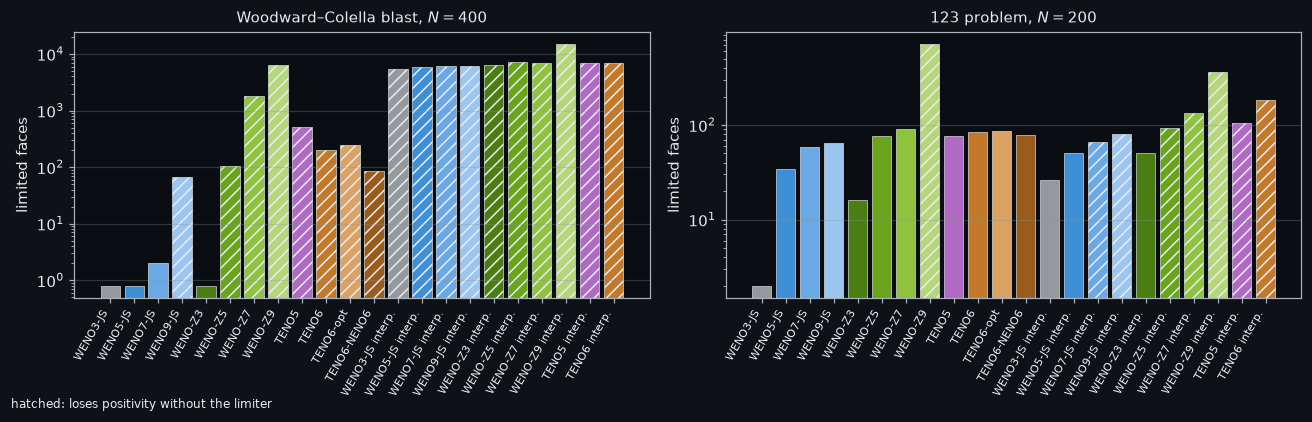
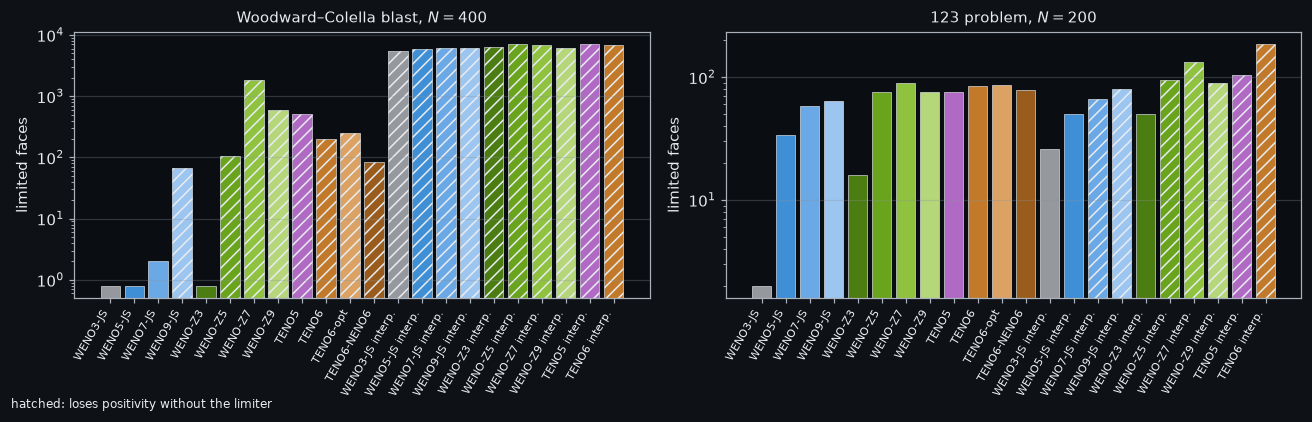
docs(verification): WENO-Z9 runs at p = 2, pages and tables redrawn
The pages still described the p = 1 behaviour that the tests no longer
  run: a 0.28 overshoot behind the Burgers shock, exempted from the
  bound, and "not robust at shocks" in the guide. They now state what
  the report-mode run measures with p = 2, and keep the p = 1 numbers
  as the reason for the choice:

  - Burgers: overshoot at most 9.4e-4 on 40 to 640 cells (0.19 to 0.28)
  - composite profile: within [-7.8e-5, 1.0005] (was [-0.055, 1.056])
  - blast wave: 585 limited faces, 6041 on the interpolation path
    (6294, 14994)
  - 123 problem: positive without the limiter on the splitting path
  - Shu-Osher: L1(rho) 0.1374 (0.1255), the one case where p = 2 costs
    accuracy

  The cause is given as the exponent, not tau_9 = |beta_0 - beta_4|,
  and the claim is limited to the one-dimensional cases run here. The
  blast page no longer says at which step WENO-Z9 loses positivity: the
  case does not record it for p = 2.

  Tables, figures and animations are regenerated by scripts/run_vv.sh
  (gfortran); every bound holds for every scheme, the quick suite
  passes 26/26 and the site builds.

  Closes #1

diff --git a/docs/verification/shocks/burgers.md b/docs/verification/shocks/burgers.md
@@ -69,11 +69,14 @@ after the shock at $N = 80$.*
   shock with an upstream group velocity, and TENO6 does not damp them. The [ADR](../spectral/adr) shows why: TENO6 is
   anti-dissipative in a narrow band near $\vartheta/\pi \approx 0.47$, a wavelength of about $4h$, where its cutoff
   starts to act.
-- The overshoot after the shock stays below $10^{-4}$ for most schemes and below $10^{-2}$ for all but one
-  (asserted). WENO-Z7 reaches $6\cdot10^{-3}$.
-- **WENO-Z9 overshoots by 0.28 behind the shock** (printed, exempted from the bound; to be fixed:
-  [issue #1](https://github.com/szaghi/SETH/issues/1)). Its
-  $\tau_9 = |\beta_0 - \beta_4|$ (Castro et al.'s rule for odd $r$, as restated by Li et al. 2022b; the choice was
-  already recorded as unsourced for WENO-Z9) is small when the two outer candidates straddle a smeared shock
-  symmetrically. The weights then stay close to the linear ones across the shock. The same weakness makes WENO-Z9
-  lose positivity in the first step of the [blast wave](./blast) and on the [123 problem](./test123).
+- The overshoot after the shock stays below $10^{-4}$ for most schemes and below $10^{-2}$ for all (asserted).
+  WENO-Z7 reaches $6\cdot10^{-3}$, WENO-Z9 $9\cdot10^{-4}$.
+- **WENO-Z9 needs the exponent $p = 2$.** With $p = 1$ it overshoots by 0.19 to 0.28 behind the shock on every
+  grid, leaves $[-0.05, 1.05]$ on the [composite profile](./advection) and needs 6294 limited faces on the
+  [blast wave](./blast); with $p = 2$, which every case of this section now runs, the overshoot is at most
+  $9\cdot10^{-4}$, the composite profile stays within $[-8\cdot10^{-5}, 1.0005]$ and the blast wave needs 585
+  limited faces. The convergence before the shock is the same for both. The cause is the exponent, not
+  $\tau_9 = |\beta_0 - \beta_4|$: Castro et al. (2011) use that $\tau_9$ and report low exponents unstable at
+  high order (llm-wiki high-order-capturing-schemes `methods/weno-z.md`). Measured on these one-dimensional cases
+  only ([issue #1](https://github.com/szaghi/SETH/issues/1)); $p = 3$ and 4 bring no further gain here and cost
+  accuracy (blast $L_1(\rho)$ 0.077 at $p = 2$, 0.083 at $p = 4$).

diff --git a/docs/verification/shocks/blast.md b/docs/verification/shocks/blast.md
@@ -59,13 +59,14 @@ peaks of the collision.*
 
 - **Without the limiter only WENO3/5/7-JS and WENO-Z3 on the splitting path stay positive** (WENO5-JS asserted);
   WENO9-JS, the higher-order WENO-Z, every TENO and every interpolation lose positivity. WENO-Z5, TENO5 and TENO6
-  lose it in the low-pressure gap before the collision. WENO-Z7 and WENO-Z9 fail within the first three
-  steps, next to the initial 1000 : 0.01 jump. After one step WENO-Z9 undershoots that jump by 0.6% of its height,
-  enough to drive the 0.01 side negative; WENO9-JS, with its heavier weights, stays positive at that step (it fails
-  later). Lowering the CFL number does not
-  help (measured at 0.2–0.5), nor does refining to 800 cells.
+  lose it in the low-pressure gap before the collision. WENO-Z7 fails within the first three
+  steps, next to the initial 1000 : 0.01 jump. WENO-Z9 runs with $p = 2$ ([Burgers](./burgers)) and loses
+  positivity too; with $p = 1$ it undershot that jump by 0.6% of its height after one step, enough to drive the
+  0.01 side negative. Lowering the CFL number does not
+  help (measured at 0.2–0.5; for WENO-Z9 with $p = 1$ only), nor does refining to 800 cells.
 - With the limiter every scheme completes the run (asserted). On the splitting path WENO-Z5, TENO5 and TENO6 need
-  about 100 to 500 limited faces, WENO-Z7 and WENO-Z9 thousands; the interpolation path needs 5000 to 15000.
+  about 100 to 500 limited faces, WENO-Z9 ($p = 2$) 585, WENO-Z7 ($p = 1$) 1826; the interpolation path needs
+  5500 to 7100.
 - Borges et al. (2008) and Fu, Hu & Adams (2016) report WENO-Z5 and TENO results on this problem at 400 cells; Fu
   et al. use a Roe flux with entropy fix, not Lax–Friedrichs splitting. SETH's harness reproduces those results only
   with the limiter. Whether the published runs needed a safeguard is not stated in the summaries of those papers in

diff --git a/docs/verification/index.md b/docs/verification/index.md
@@ -46,9 +46,9 @@ The findings that change how the kernels should be used, each documented on its 
   waves; on the Woodward–Colella blast so do WENO9-JS and the WENO-Z (but Z3) and TENO reconstructions
   ([S3](./shocks/test123), [S5](./shocks/blast)). SETH provides one: `seth_positivity_euler`, the flux limiter of
   Hu, Adams & Shu ([API](/guide/api#positivity-limiter), [C7](./contracts/positivity)).
-- WENO-Z9 is not robust at shocks: 28% overshoot behind the Burgers shock, oscillations on the composite profile,
-  loss of positivity in the first steps of the blast wave ([S6](./shocks/burgers);
-  [issue #1](https://github.com/szaghi/SETH/issues/1)).
+- WENO-Z9 needs the exponent $p = 2$: with $p = 1$ it overshoots by 28% behind the Burgers shock and oscillates
+  on the composite profile; with $p = 2$ it stays within the bounds of the other schemes, on the one-dimensional
+  cases run here ([S6](./shocks/burgers); [issue #1](https://github.com/szaghi/SETH/issues/1)).
 - With Lax–Friedrichs splitting, use $\alpha$ a little above $\max|f'|$. With $\alpha = \max|f'|$ exactly, the split
   flux has a second-order critical point where $|f'|$ peaks, and TENO falls to second order there
   ([S6](./shocks/burgers)).

diff --git a/docs/verification/_tables/123.md b/docs/verification/_tables/123.md
@@ -7,7 +7,7 @@
 | WENO-Z3 | 0.006396 | 0.001516 | 0.58 | yes | 16 |
 | WENO-Z5 | 0.005045 | 0.001198 | 0.53 | yes | 76 |
 | WENO-Z7 | 0.005497 | 0.001115 | 0.59 | yes | 90 |
-| WENO-Z9 | 0.006107 | 9.459e-04 | 0.83 | **no** | 718 |
+| WENO-Z9 | 0.004934 | 0.001291 | 0.51 | yes | 76 |
 | TENO5 | 0.004992 | 0.001216 | 0.50 | yes | 76 |
 | TENO6 | 0.005224 | 0.001217 | 0.51 | yes | 84 |
 | TENO6-opt | 0.005113 | 0.001204 | 0.50 | yes | 86 |
@@ -19,7 +19,7 @@
 | WENO-Z3 interp. | 0.006337 | 0.001389 | 0.57 | yes | 50 |
 | WENO-Z5 interp. | 0.005793 | 0.001127 | 0.59 | **no** | 94 |
 | WENO-Z7 interp. | 0.00597 | 0.001064 | 0.68 | **no** | 134 |
-| WENO-Z9 interp. | 0.006359 | 9.920e-04 | 0.80 | **no** | 361 |
+| WENO-Z9 interp. | 0.0058 | 0.001152 | 0.54 | **no** | 90 |
 | TENO5 interp. | 0.005799 | 0.001127 | 0.53 | **no** | 104 |
 | TENO6 interp. | 0.005696 | 0.001099 | 0.57 | **no** | 186 |
 

diff --git a/docs/verification/_tables/sod.md b/docs/verification/_tables/sod.md
@@ -7,7 +7,7 @@
 | WENO-Z3 | 0.004529 | 6.899e-04 | 0.91 | yes | 0 |
 | WENO-Z5 | 0.002828 | 4.033e-04 | 0.94 | yes | 0 |
 | WENO-Z7 | 0.002416 | 3.386e-04 | 0.95 | yes | 0 |
-| WENO-Z9 | 0.002457 | 3.580e-04 | 0.87 | yes | 0 |
+| WENO-Z9 | 0.00244 | 3.369e-04 | 0.96 | yes | 0 |
 | TENO5 | 0.00273 | 3.919e-04 | 0.93 | yes | 0 |
 | TENO6 | 0.002336 | 3.371e-04 | 0.92 | yes | 0 |
 | TENO6-opt | 0.002356 | 3.354e-04 | 0.94 | yes | 0 |
@@ -19,7 +19,7 @@
 | WENO-Z3 interp. | 0.003156 | 4.887e-04 | 0.92 | yes | 0 |
 | WENO-Z5 interp. | 0.002323 | 3.312e-04 | 0.95 | yes | 0 |
 | WENO-Z7 interp. | 0.002115 | 3.224e-04 | 0.81 | yes | 0 |
-| WENO-Z9 interp. | 0.00284 | 4.014e-04 | 0.91 | yes | 0 |
+| WENO-Z9 interp. | 0.002224 | 3.150e-04 | 0.97 | yes | 0 |
 | TENO5 interp. | 0.002271 | 3.337e-04 | 0.94 | yes | 0 |
 | TENO6 interp. | 0.002273 | 3.441e-04 | 0.92 | yes | 0 |
 

diff --git a/docs/verification/_tables/lax.md b/docs/verification/_tables/lax.md
@@ -7,7 +7,7 @@
 | WENO-Z3 | 0.0156 | 0.002628 | 0.82 | yes | 0 |
 | WENO-Z5 | 0.009325 | 0.001375 | 0.87 | yes | 0 |
 | WENO-Z7 | 0.008041 | 0.00113 | 0.87 | yes | 0 |
-| WENO-Z9 | 0.007988 | 0.001356 | 0.84 | yes | 0 |
+| WENO-Z9 | 0.007649 | 0.001001 | 0.90 | yes | 0 |
 | TENO5 | 0.0092 | 0.001387 | 0.84 | yes | 0 |
 | TENO6 | 0.007946 | 0.001229 | 0.79 | yes | 0 |
 | TENO6-opt | 0.007833 | 0.001276 | 0.69 | yes | 0 |
@@ -19,7 +19,7 @@
 | WENO-Z3 interp. | 0.0114 | 0.001869 | 0.82 | yes | 0 |
 | WENO-Z5 interp. | 0.007847 | 0.0011 | 0.86 | yes | 0 |
 | WENO-Z7 interp. | 0.006971 | 0.001233 | 0.81 | yes | 0 |
-| WENO-Z9 interp. | 0.01063 | 0.001598 | 0.86 | yes | 0 |
+| WENO-Z9 interp. | 0.007544 | 0.001017 | 0.85 | yes | 0 |
 | TENO5 interp. | 0.007874 | 0.001127 | 0.84 | yes | 0 |
 | TENO6 interp. | 0.007281 | 0.00104 | 0.77 | yes | 0 |
 

diff --git a/docs/guide/schemes.md b/docs/guide/schemes.md
@@ -186,8 +186,9 @@ WENO-JS's. Across a jump, $\tau = O(1)$ and the smooth candidates, with small $\
 
 $p$ = 1 (Borges) or 2 (fifth order at first-order critical points; recommended for higher orders); $\varepsilon =
 10^{-40}$ is the usual choice. The orders of $\tau$ are measured exactly by the table generator (Castro et al.'s
-$\tau_7 = \lvert\beta_0-\beta_1-\beta_2+\beta_3\rvert$ is $O(h^6)$, as Li et al. 2022 state). WENO-Z9 is not robust
-at strong shocks ([issue #1](https://github.com/szaghi/SETH/issues/1)).
+$\tau_7 = \lvert\beta_0-\beta_1-\beta_2+\beta_3\rvert$ is $O(h^6)$, as Li et al. 2022 state). WENO-Z9 needs
+$p = 2$: with $p = 1$ it is not robust at shocks ([Burgers](/verification/shocks/burgers),
+[issue #1](https://github.com/szaghi/SETH/issues/1)).
 
 ## TENO: TENO5, TENO6, TENO6-opt, TENO6-NENO6
 

diff --git a/docs/verification/shocks/test123.md b/docs/verification/shocks/test123.md
@@ -47,7 +47,8 @@ scripts/run_vv.sh --only seth_vv_test123
 ## Findings
 
 - Without the limiter, every reconstruction up to 7th order stays positive on the splitting path, and so do the
-  WENO3-JS, WENO5-JS and WENO-Z3 interpolations (asserted). WENO-Z9 on the splitting path does not.
+  WENO3-JS, WENO5-JS and WENO-Z3 interpolations (asserted). So does WENO-Z9 with $p = 2$ (measured, not
+  asserted); with $p = 1$ it did not.
 - **The higher-order interpolations lose positivity without the limiter**: WENO7/9-JS, WENO-Z5/7/9, TENO5 and
   TENO6. WENO-Z5 and TENO5 need CFL ≤ 0.1, and TENO6 fails even there. The flux corrections are not the cause: without them the second-order flux fails too.
   The cause is high-order, low-dissipation face states fed to HLLC next to vacuum. The splitting path, whose global

diff --git a/docs/verification/_tables/blast.md b/docs/verification/_tables/blast.md
@@ -7,7 +7,7 @@
 | WENO-Z3 | 0.1832 | yes | 0 |
 | WENO-Z5 | 0.09773 | **no** | 104 |
 | WENO-Z7 | 0.07433 | **no** | 1826 |
-| WENO-Z9 | 0.06884 | **no** | 6294 |
+| WENO-Z9 | 0.07735 | **no** | 585 |
 | TENO5 | 0.08839 | **no** | 515 |
 | TENO6 | 0.05839 | **no** | 197 |
 | TENO6-opt | 0.06444 | **no** | 251 |
@@ -19,6 +19,6 @@
 | WENO-Z3 interp. | 0.09706 | **no** | 6276 |
 | WENO-Z5 interp. | 0.05801 | **no** | 7119 |
 | WENO-Z7 interp. | 0.05012 | **no** | 6940 |
-| WENO-Z9 interp. | 0.05379 | **no** | 14994 |
+| WENO-Z9 interp. | 0.06085 | **no** | 6041 |
 | TENO5 interp. | 0.05513 | **no** | 7055 |
 | TENO6 interp. | 0.05295 | **no** | 6943 |

diff --git a/docs/verification/_tables/shu-osher.md b/docs/verification/_tables/shu-osher.md
@@ -7,7 +7,7 @@
 | WENO-Z3 | 0.7562 | — | — |
 | WENO-Z5 | 0.19 | — | — |
 | WENO-Z7 | 0.1421 | — | — |
-| WENO-Z9 | 0.1255 | — | — |
+| WENO-Z9 | 0.1374 | — | — |
 | TENO5 | 0.1714 | — | — |
 | TENO6 | 0.1515 | — | — |
 | TENO6-opt | 0.1492 | — | — |
@@ -19,6 +19,6 @@
 | WENO-Z3 interp. | 0.5701 | — | — |
 | WENO-Z5 interp. | 0.1457 | — | — |
 | WENO-Z7 interp. | 0.1045 | — | — |
-| WENO-Z9 interp. | 0.1309 | — | — |
+| WENO-Z9 interp. | 0.1297 | — | — |
 | TENO5 interp. | 0.1503 | — | — |
 | TENO6 interp. | 0.1353 | — | — |

diff --git a/docs/verification/_tables/euler-order.md b/docs/verification/_tables/euler-order.md
@@ -7,7 +7,7 @@
 | WENO-Z3 | 1.791e-04 | 2.24 |
 | WENO-Z5 | 2.087e-10 | 5.00 |
 | WENO-Z7 | 5.642e-12 | 7.00 |
-| WENO-Z9 | 3.287e-11 | 9.00 |
+| WENO-Z9 | 3.286e-11 | 9.00 |
 | TENO5 | 2.087e-10 | 5.00 |
 | TENO6 | 2.246e-12 | 5.99 |
 | TENO6-opt | 2.579e-11 | 5.00 |
@@ -19,6 +19,6 @@
 | WENO-Z3 interp. | 8.460e-05 | 2.23 |
 | WENO-Z5 interp. | 6.459e-11 | 5.00 |
 | WENO-Z7 interp. | 2.246e-12 | 6.03 |
-| WENO-Z9 interp. | 2.247e-12 | 6.00 |
+| WENO-Z9 interp. | 2.249e-12 | 6.00 |
 | TENO5 interp. | 6.459e-11 | 5.00 |
 | TENO6 interp. | 2.247e-12 | 5.99 |

diff --git a/docs/verification/_tables/burgers.md b/docs/verification/_tables/burgers.md
@@ -7,7 +7,7 @@
 | WENO-Z3 | 1.984e-05 | 2.18 | 0.003523 | 1.438e-07 | 0 |
 | WENO-Z5 | 1.418e-10 | 5.04 | 0.002925 | 2.556e-11 | 0 |
 | WENO-Z7 | 5.703e-13 | 7.04 | 0.002717 | 6.237e-12 | 0.006112 |
-| WENO-Z9 | 2.283e-12 | 8.72 | 0.003274 | 1.789e-11 | 0.2795 |
+| WENO-Z9 | 2.283e-12 | 8.72 | 0.002813 | 3.048e-11 | 9.447e-04 |
 | TENO5 | 1.383e-10 | 5.05 | 0.003156 | 2.560e-11 | 2.964e-05 |
 | TENO6 | 6.349e-12 | 5.98 | 0.003108 | 8.281e-06 | 0 |
 | TENO6-opt | 2.632e-11 | 5.27 | 0.003094 | 8.765e-07 | 0 |
